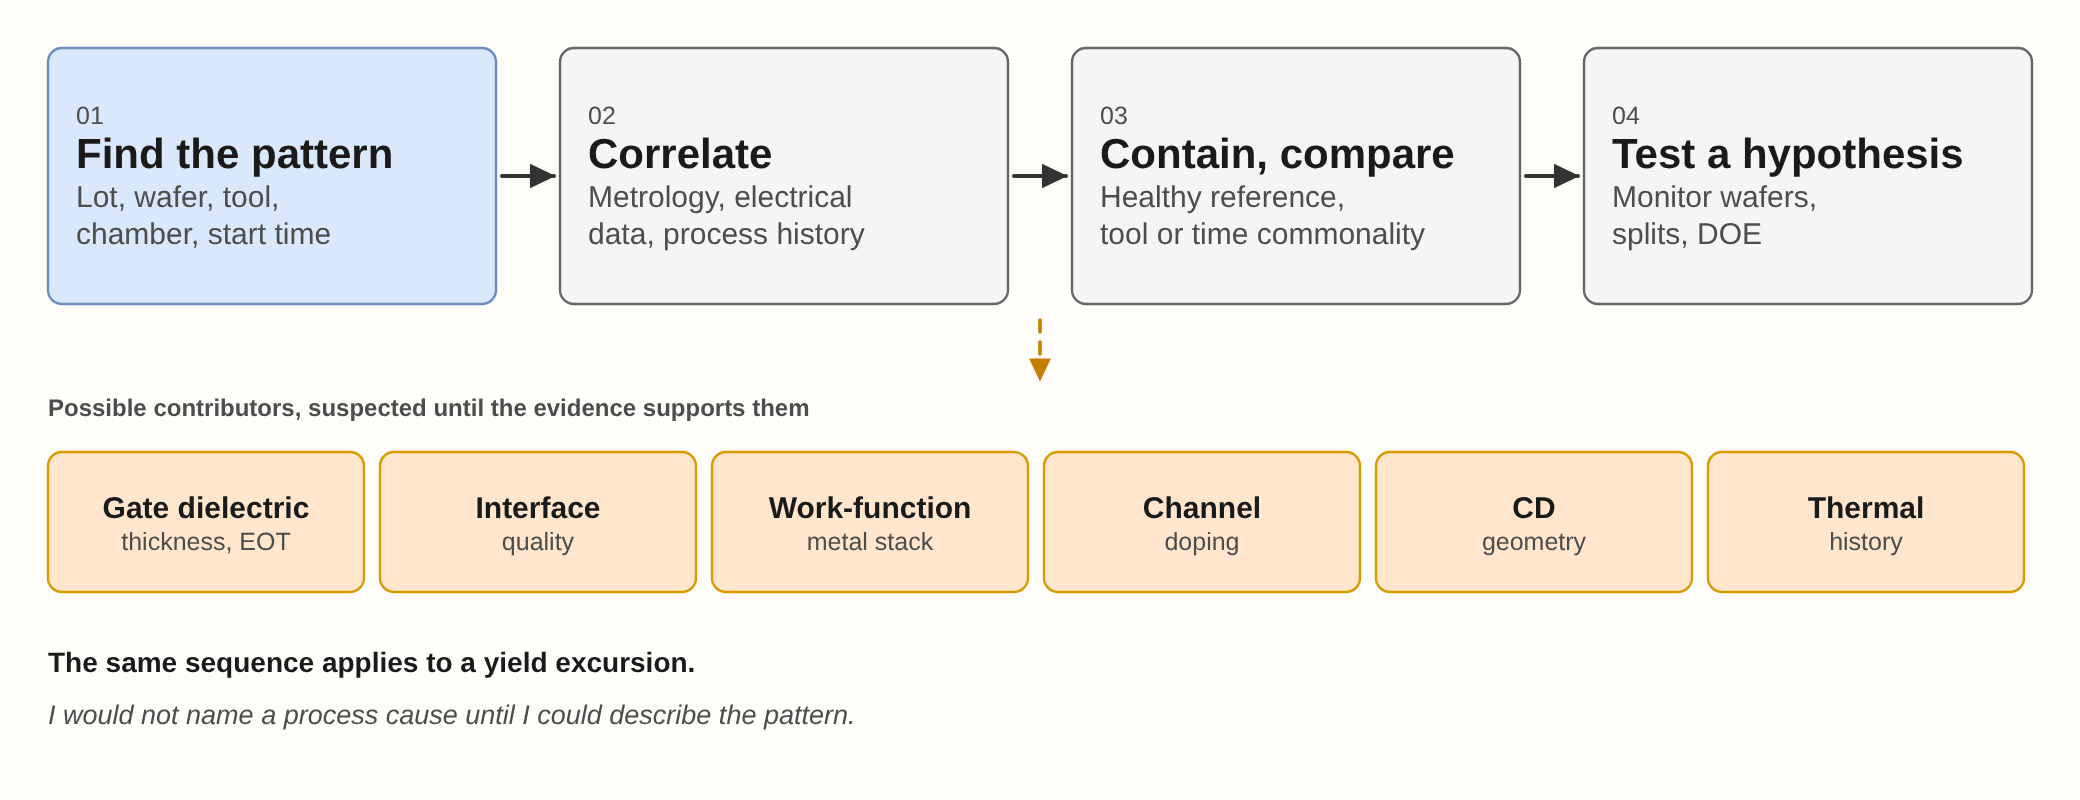
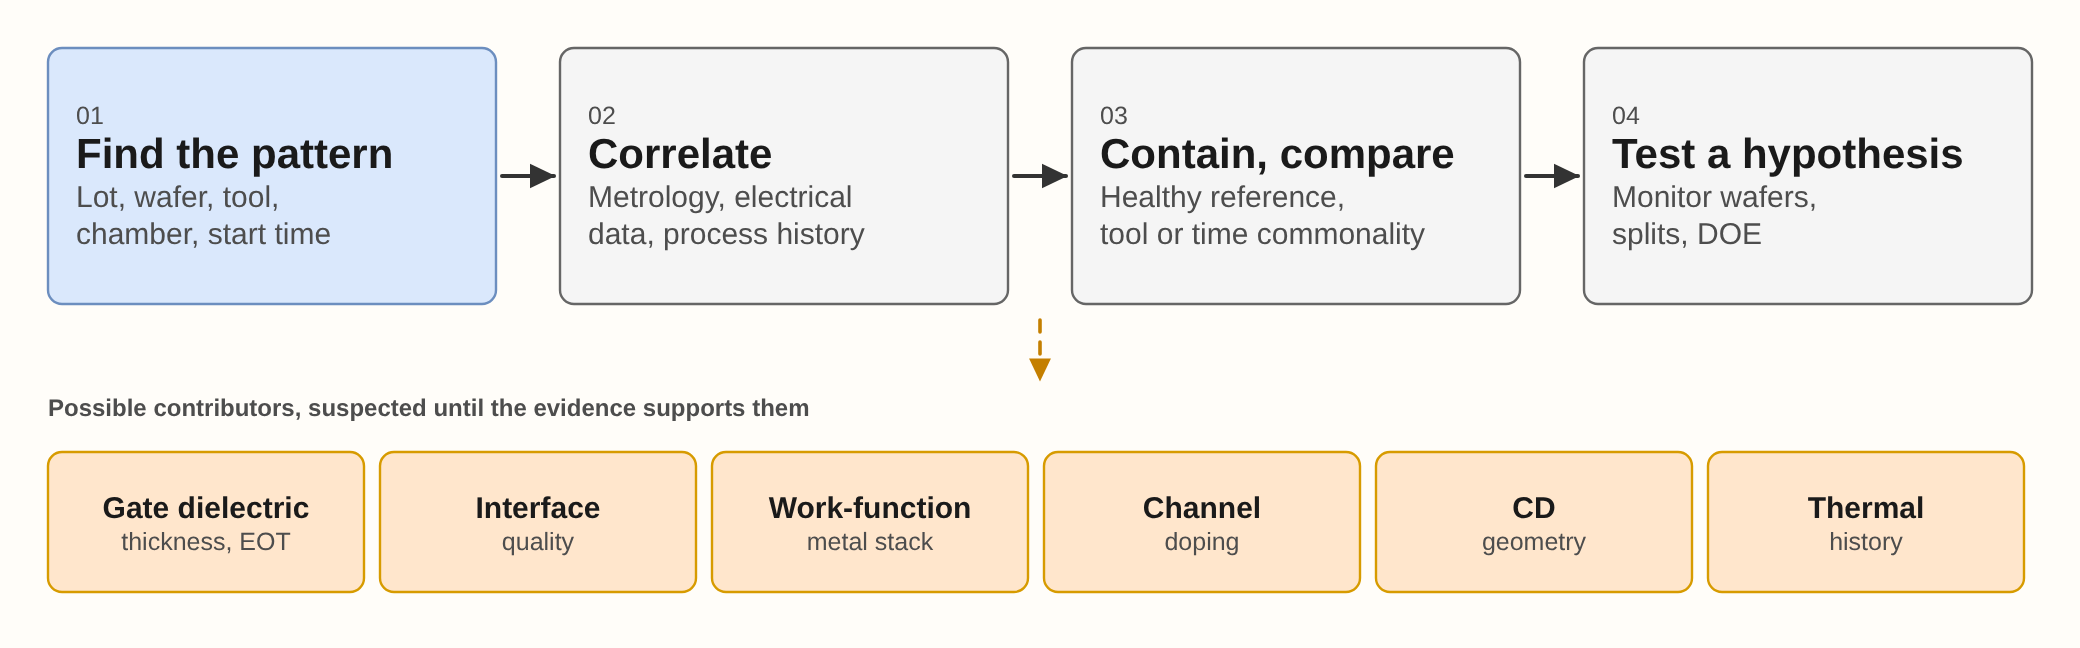
semi2

diff --git a/semiconductor.html b/semiconductor.html
@@ -55,7 +55,7 @@
   <section class="sec" id="vth">
     <div class="sec-head"><div><span class="num">03</span><h2>When Vth shifts</h2></div>
       <p>Threshold voltage (Vth) is an extracted device parameter associated with the onset of strong channel conduction. Its value depends on the device and extraction method. When Vth shifts, start by identifying the affected lots, wafers, devices, or chambers. Compare electrical results with inline measurements and process history, then use the pattern to guide the next check.</p></div>
-    <figure class="fig"><p class="fig-hint">Swipe to view the full diagram &rarr;</p><div class="fig-frame"><a href="assets/diagrams/png/semi-vth.png" target="_blank" rel="noopener" title="Open full size"><img src="assets/diagrams/semi-vth.svg" width="1040" height="400" alt="Four steps: find the pattern, correlate with metrology, electrical data and process history, contain and compare with healthy references, then test a hypothesis with monitor material, splits or a DOE. Possible contributors, suspected until the evidence supports them: gate dielectric thickness or EOT, interface quality, work-function metal, channel doping, CD and geometry, thermal history."></a></div><figcaption><b>Fig. 3</b> An investigation approach for a Vth shift. Orange marks suspected contributors until the evidence supports them.</figcaption></figure>
+    <figure class="fig"><p class="fig-hint">Swipe to view the full diagram &rarr;</p><div class="fig-frame"><a href="assets/diagrams/png/semi-vth.png" target="_blank" rel="noopener" title="Open full size"><img src="assets/diagrams/semi-vth.svg" width="1040" height="324" alt="Four steps: find the pattern, correlate with metrology, electrical data and process history, contain and compare with healthy references, then test a hypothesis with monitor material, splits or a DOE. Possible contributors, suspected until the evidence supports them: gate dielectric thickness or EOT, interface quality, work-function metal, channel doping, CD and geometry, thermal history."></a></div><figcaption><b>Fig. 3</b> An investigation approach for a Vth shift. Orange marks suspected contributors until the evidence supports them.</figcaption></figure>
   </section>
 
   <section class="sec" id="chain">

diff --git a/css/style.css b/css/style.css
@@ -249,7 +249,7 @@ ul.list li::before { content: ""; position: absolute; left: 0; top: .78em; width
   .st-head { display: none; }
   .st-row { grid-template-columns: 1fr; gap: 6px; padding: 18px 0; }
   .st-row > span:nth-child(2)::before { content: "Problem: "; font-weight: 600; color: var(--ink); }
-  .st-row > span:nth-child(3)::before { content: "What I did: "; font-weight: 600; color: var(--ink); }
+  .st-row > span:nth-child(3)::before { content: "Action: "; font-weight: 600; color: var(--ink); }
   .st-row > span:nth-child(4)::before { content: "Result: "; font-weight: 600; color: var(--ink); }
 }
 
